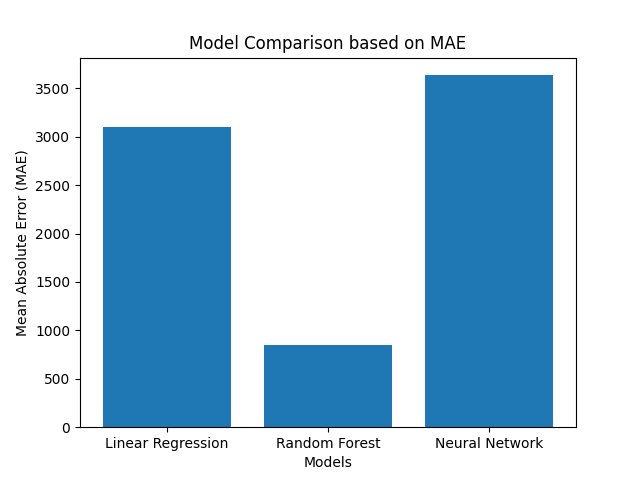
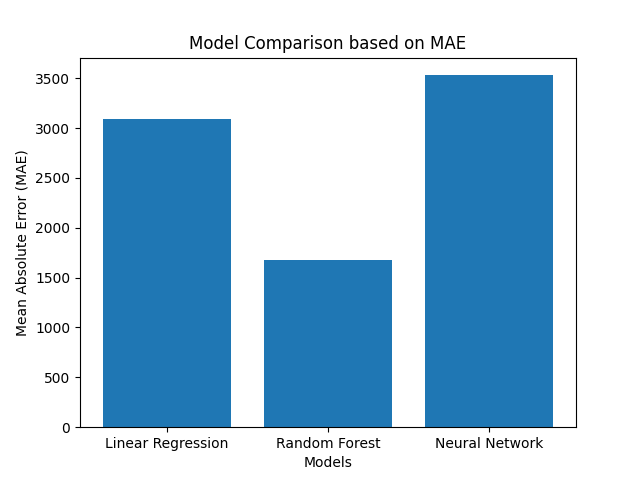
refactored and added new plots

diff --git a/main.py b/main.py
@@ -6,13 +6,10 @@ import seaborn as sns
 import matplotlib.pyplot as plt
 import torch
 from sklearn.linear_model import LinearRegression
-from sklearn.metrics import mean_squared_error, mean_absolute_error, r2_score
+from sklearn.metrics import mean_squared_error, mean_absolute_error
 from sklearn.model_selection import train_test_split
 import matplotlib.pyplot as plt
-from sklearn.neighbors import KNeighborsRegressor
 from sklearn.ensemble import RandomForestRegressor
-from sklearn.tree import DecisionTreeRegressor
-import time
 from sklearn import tree
 
 from nn import neural_network
@@ -66,11 +63,9 @@ def leader_board_predict_fn(values):
 
     values_tensor = torch.Tensor(x_values_encoded.values)
     # Uncomment for Neural Network prediction
-    predictions = model(values_tensor).detach().numpy()
+    # predictions = model(values_tensor).detach().numpy()
     # Uncomment for Random Forest prediction
-    # predictions = model.predict(x_values_encoded)
-    # Uncomment for Random Forest prediction
-#    predictions = model.predict(x_values_encoded)
+    predictions = model.predict(x_values_encoded)
 
     return predictions
 
@@ -117,16 +112,19 @@ def best_estimators():
     plt.show()
 
 
+def train_evaluate_linear_regression(x, y):
+    # Train the Random Forest model
+    lr_model = LinearRegression()
+    lr_model.fit(x, y)
+
+    return lr_model
+
+
 def train_evaluate_random_forest(x_train, y_train, n_estimators):
     # Train the Random Forest model
     random_forest_model = RandomForestRegressor(n_estimators=n_estimators,
                                                 random_state=42)  # You can adjust the number of estimators as needed
-    function = random_forest_model.fit(x_train, y_train)
-
-    # Evaluate the model on the validation set
-    # val_predictions = random_forest_model.predict(x_val)
-    # val_mae = mean_absolute_error(y_val, val_predictions)
-    # print("Validation Mean Absolute Error (MAE) for Random Forest:", val_mae)
+    random_forest_model.fit(x_train, y_train)
 
     return random_forest_model
 
@@ -148,19 +146,8 @@ def plot_residuals(y_test, y_predict):
     plt.axhline(y=0, color='r', linestyle='-')
     plt.xlabel('Actual Power Consumption')
     plt.ylabel('Residuals')
-    plt.title('Residual Plot')
+    plt.title('Residual Plot Neural Network')
     plt.show()
-
-
-def train_evaluate_linear_regression(x, y):
-    # Train the Random Forest model
-    lr_model = LinearRegression()
-    lr_model.fit(x, y)
-
-    # Evaluate the model on the validation set
-    val_predictions = lr_model.predict(x_val)
-
-    return lr_model
 
 
 def plot_decision_tree(random_forest_model):
@@ -170,6 +157,14 @@ def plot_decision_tree(random_forest_model):
     # Plot the decision tree
     plt.figure(figsize=(10, 10))
     tree.plot_tree(decision_tree, filled=True)
+    plt.show()
+
+
+def plot_comparison(models, mae_scores):
+    plt.bar(models, mae_scores)
+    plt.xlabel('Models')
+    plt.ylabel('Mean Absolute Error (MAE)')
+    plt.title('Model Comparison based on MAE')
     plt.show()
 
 
@@ -192,9 +187,9 @@ if __name__ == "__main__":
 
     # best_epochs()
 
-    model = neural_network(x_train.values.astype(float), y_train.values.astype(float), x_val.values.astype(float),
-                            y_val.values.astype(float), 50)
-    #model = train_evaluate_linear_regression(x_train, y_train)
+    # model = neural_network(x_train.values.astype(float), y_train.values.astype(float), x_val.values.astype(float),
+    #                         y_val.values.astype(float), 20)
+    model = train_evaluate_linear_regression(x_train, y_train)
 
     y_predict = leader_board_predict_fn(x_val)
 
@@ -205,17 +200,13 @@ if __name__ == "__main__":
     # plot_decision_tree(model)
 
     models = ['Linear Regression', 'Random Forest', 'Neural Network']
-    mae_scores = [3094.9474070944225, 846.7883007892258,
-                  3634.9795218528106]  # Replace with actual MAE scores for each model
+    mae_scores = [3094.9474070944225, 1681.2182666666665,
+                  3530.0693807373045]  # Replace with actual MAE scores for each model
 
     # Plot the model comparison
-    # plt.bar(models, mae_scores)
-    # plt.xlabel('Models')
-    # plt.ylabel('Mean Absolute Error (MAE)')
-    # plt.title('Model Comparison based on MAE')
-    # plt.show()
+    plot_comparison(models, mae_scores)
 
-    # plot_residuals(y_test, y_predict)
+    # plot_residual(y_test, y_predict)
 
     ################################################## Testing purposes
     # time neural network

diff --git a/nn.py b/nn.py
@@ -1,9 +1,9 @@
 import numpy as np
-from sklearn.model_selection import train_test_split
 import torch
 import torch.nn as nn
 import torch.optim as optim
 from torch.utils.data import TensorDataset, DataLoader
+import matplotlib.pyplot as plt
 
 
 def neural_network(x_train, y_train, x_val, y_val, num_epochs):
@@ -30,7 +30,11 @@ def neural_network(x_train, y_train, x_val, y_val, num_epochs):
 
     # Define the loss function and optimizer
     criterion = nn.MSELoss()
-    optimizer = optim.Adam(model.parameters(), lr=0.001)
+    optimizer = optim.Adam(model.parameters(), lr=0.01)
+
+    # Lists to store losses
+    train_losses = []
+    val_losses = []
 
     # Train the model
     for epoch in range(num_epochs):
@@ -54,9 +58,18 @@ def neural_network(x_train, y_train, x_val, y_val, num_epochs):
                 val_loss += criterion(outputs, targets).item()
 
         val_loss /= len(val_loader)
+        train_losses.append(loss.item())
+        val_losses.append(val_loss)
         print(f"Epoch {epoch+1}: Training Loss={loss.item():.4f}, Validation Loss={val_loss:.4f}")
 
+    # Plotting
+    epochs = range(1, num_epochs + 1)
+    plt.plot(epochs, train_losses, label='Training Loss')
+    plt.plot(epochs, val_losses, label='Validation Loss')
+    plt.xlabel('Epochs')
+    plt.ylabel('Loss')
+    plt.title('Training and Validation Loss')
+    plt.legend()
+    plt.show()
+
     return model
-
-
-
